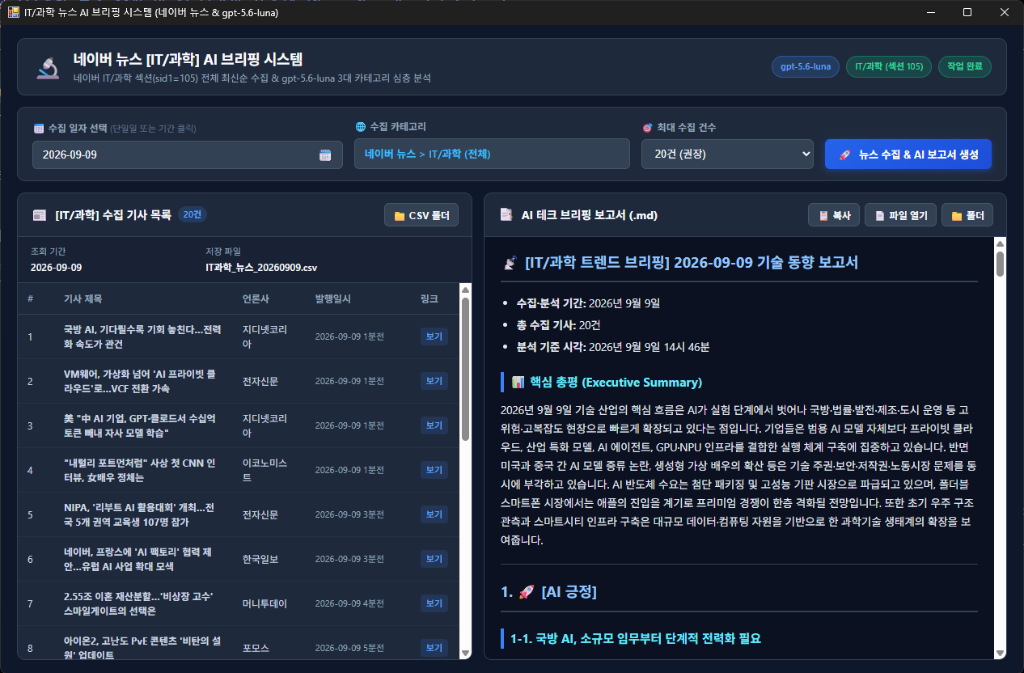
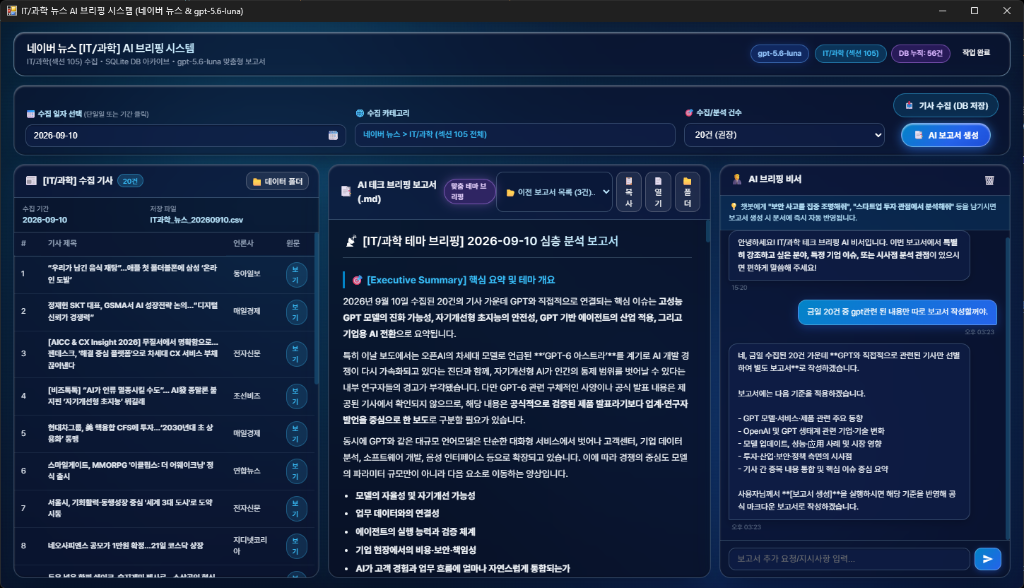
docs: 최신 UI 실행 화면 스크린샷 갱신 및 포트폴리오용 README 기술 문서 고도화 (이력 관리 & Q6 추가)

diff --git a/README.md b/README.md
@@ -15,7 +15,7 @@
 <p align="center">
   <img src="docs/app_main_screenshot.png" alt="IT/과학 뉴스 AI 브리핑 대시보드" width="760" style="border-radius: 12px; box-shadow: 0 6px 20px rgba(0,0,0,0.2);" />
 </p>
-<p align="center"><i>▲ 네이버 뉴스 [IT/과학] 카테고리 전체 최신순 자동 수집 및 gpt-5.6-luna 3대 카테고리 실시간 AI 브리핑 대시보드</i></p>
+<p align="center"><i>▲ 네이버 뉴스 [IT/과학] 카테고리 전체 최신순 자동 수집, AI 비서 실시간 지시 연동 맞춤 브리핑 및 이전 보고서 이력 관리 대시보드</i></p>
 
 ---
 
@@ -28,6 +28,7 @@ flowchart TD
         A2["📥 [기사 수집 (DB 저장)] 버튼"]
         A3["📑 [AI 보고서 생성] 버튼"]
         A4["🧑💼 AI 브리핑 비서 (지시사항 챗봇)"]
+        A5["📂 [이전 보고서 목록] 드롭다운 & 파일 열기"]
     end
 
     subgraph Backend["⚙ Python Core Engine (news_scrapwithai)"]
@@ -60,6 +61,10 @@ flowchart TD
     B3 -->|보고서 저장 & M:N 기사 매핑| B2
     B3 -->|마크다운 파일 저장| MD
     B4 -->|결과 데이터 전달| UI
+
+    A5 <-->|앱 구동 시 최신 보고서 자동 복원 & 이력 선택 조회| B4
+    B4 <-->|보고서 및 매핑 기사 쿼리| B2
+    B4 -->|로컬 파일 시스템 실행 (os.startfile)| MD
 ```
 
 ---
@@ -106,8 +111,13 @@ flowchart TD
     - DB에 기사가 없을 경우에만 네이버 뉴스에서 자동 수집 후 DB 적재를 거쳐 보고서 생성.
 - **모던 3열 글래스모피즘 워크스페이스**:
   - **1열(좌측)**: [IT/과학] 수집 기사 테이블 및 데이터 폴더 원클릭 열기
-  - **2열(중앙)**: gpt-5.6-luna 마크다운 보고서 뷰어 (`기본 3대 브리핑` vs `맞춤 테마 브리핑` 모드 뱃지 실시간 토글)
+  - **2열(중앙)**: gpt-5.6-luna 마크다운 보고서 뷰어 (`기본 3대 브리핑` vs `맞춤 테마 브리핑` 모드 뱃지 실시간 토글, 이전 보고서 이력 선택기)
   - **3열(우측)**: AI 브리핑 비서 대화창 & 활성 지시사항 칩 관리 바
+
+### 7. 📂 보고서 생명주기 관리 & 이전 보고서 이력 조회 (History Tracking)
+- **앱 시작 시 자동 복원**: 앱 실행 시 SQLite DB 및 `reports/` 폴더를 조회하여 가장 최근에 생성된 보고서 본문과 당시 수집된 기사 목록을 뷰어와 테이블에 자동 복원합니다.
+- **`[📂 이전 보고서 목록]` 드롭다운 셀렉터**: 중앙 헤더에 과거 보고서 목록(생성 일시 및 제목)을 제공하여 언제든 원하는 과거 보고서와 매핑된 원문 기사 리스트를 원클릭으로 전환하여 열람할 수 있습니다.
+- **스마트 파일 열기 (`open_report_file`)**: `📄 열기` 버튼 클릭 시 현재 활성 보고서뿐 아니라, 메모리가 비어있더라도 최신 `.md` 파일을 탐색하여 윈도우 기본 마크다운/텍스트 뷰어로 즉시 실행합니다.
 
 ---
 
@@ -170,6 +180,19 @@ flowchart TD
   - UI 버튼을 **`[📥 기사 수집 (DB 저장)]`**과 **`[📑 AI 보고서 생성]`**으로 물리적 2단 분리했습니다.
   - **DB 우선 캐싱 (Cache-First)**: 보고서 생성 시 SQLite DB를 먼저 조회하여 기사가 존재하면 **웹 크롤링을 100% 생략하고 DB에서 즉시 기사를 로드(0.1초 소요)**하여 LLM에 전달합니다. DB가 비어 있을 때만 자동으로 네이버 뉴스를 수집·적재한 뒤 보고서를 작성합니다.
   - **성과 (Impact)**: 불필요한 웹 트래픽 제거, OpenAI 토큰 비용 절감, 재보고서 작성 소요 시간 95% 단축.
+
+---
+
+### Q6. 보고서 세션 초기화 문제 ➔ 앱 재실행 시 최근 보고서 자동 복원 및 히스토리 셀렉터 구축
+- **문제 의문 (The Problem)**:
+  앱을 껐다 켜면 `reports/` 폴더에 이미 저장된 보고서 파일이 존재함에도 불구하고 '📄 열기'를 클릭했을 때 *"먼저 생성된 보고서가 필요합니다"*라는 경고창이 발생하고, 과거 생성된 보고서를 다시 찾아서 열어보기 불편한 단점이 있었습니다.
+- **원인 분석 (Root Cause)**:
+  기존 프론트엔드가 자바스크립트 런타임 메모리(`currentReportData`)에만 의존하여 파일 경로를 열도록 작성되어 있어, 앱 프로세스 재시작 시 메모리가 초기화되며 파일 연결이 단절되었습니다. 또한 과거 보고서 이력과 SQLite DB 레코드를 UI 상에서 연결해 주는 탐색 셀렉터가 부재했습니다.
+- **해결 방안 (Solution)**:
+  - 백엔드에 `get_latest_report()`, `get_reports_list()`, `load_report()`, `open_report_file()` API를 구축했습니다.
+  - 앱 구동 시 가장 최근에 작성된 보고서와 당시 다대다 매핑된 기사들을 자동으로 불러와 화면에 즉시 렌더링하도록 생명주기를 연결했습니다.
+  - 중앙 상단 액션바에 `[📂 이전 보고서 목록]` 드롭다운을 탑재하여 과거 생성된 모든 보고서를 일시별로 선택해 즉각 열람할 수 있게 하였으며, `📄 열기` 클릭 시에도 디스크 및 DB를 자동 탐색하여 유효한 마크다운 문서를 OS 기본 에디터로 열어주도록 스마트 Fallback을 적용했습니다.
+- **성과 (Impact)**: 앱 재실행 시 작업 연속성 100% 보장 및 과거 브리핑 아카이브 열람 편의성 대폭 개선.
 
 ---
 
